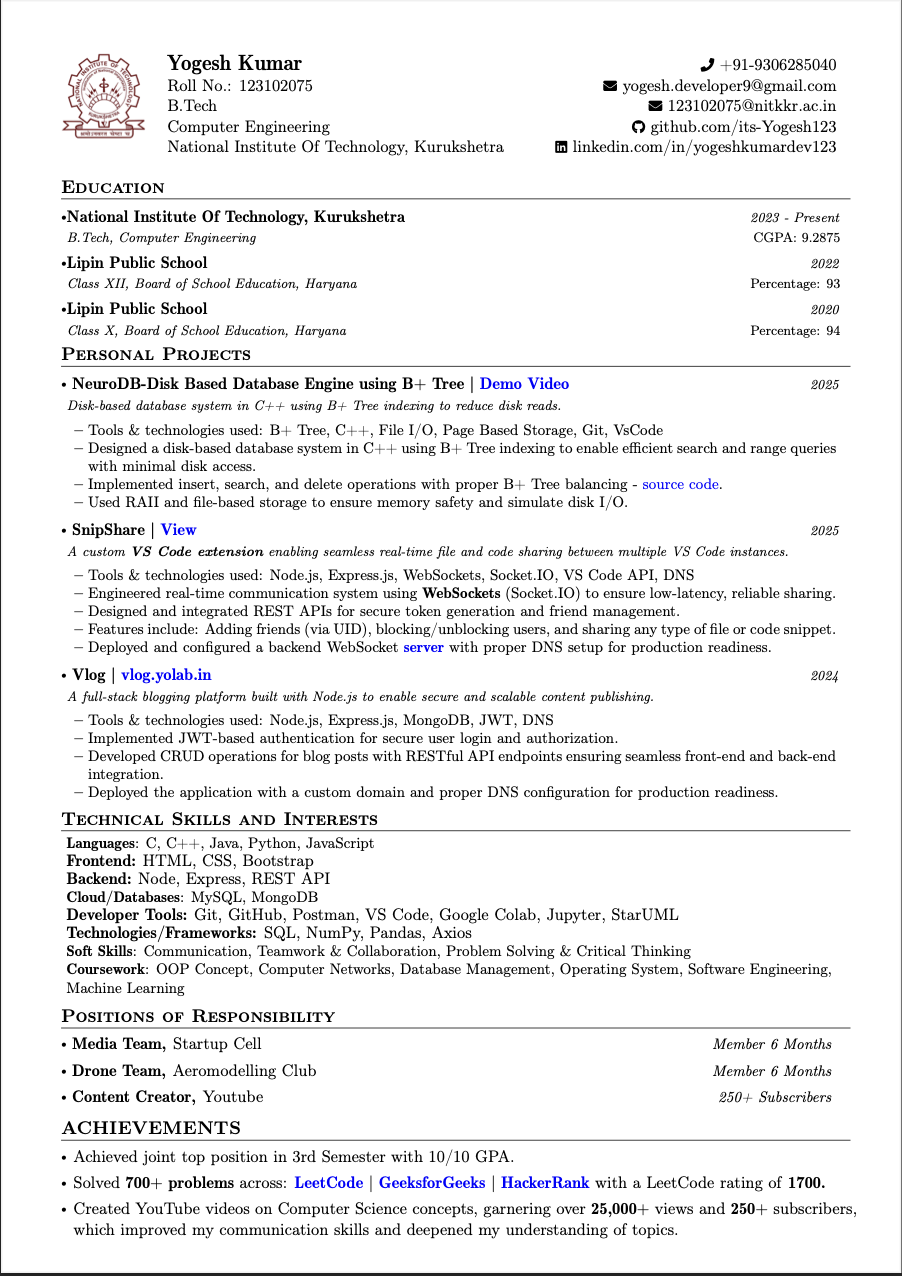
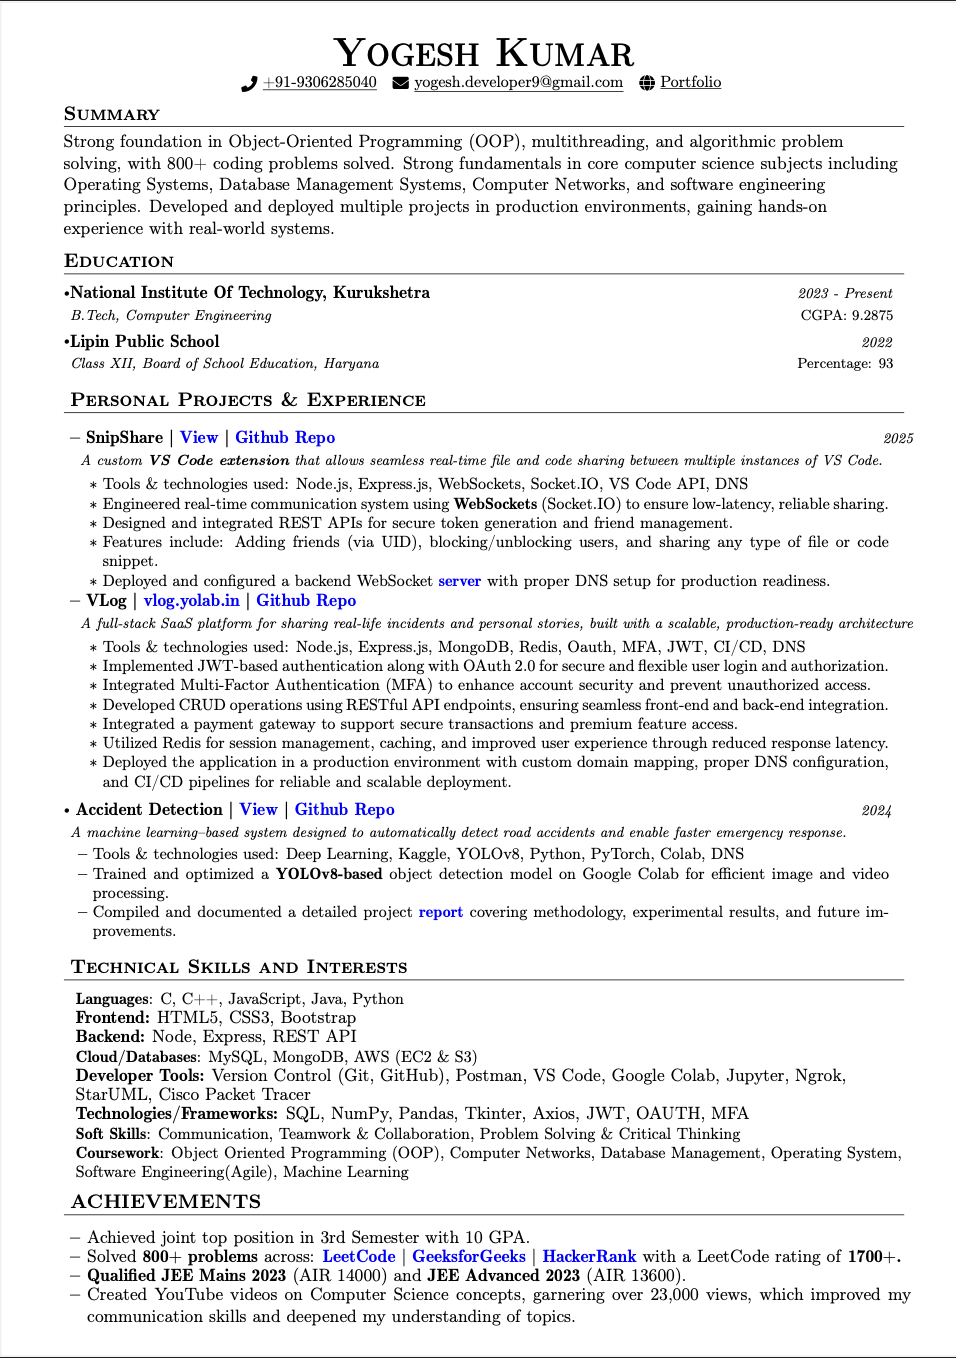
Updating Resume Details

diff --git a/index.html b/index.html
@@ -60,7 +60,7 @@
                     </div>
                     <div class="resume-badge">
                         <i class="fas fa-file-alt"></i>
-                        <a href="https://drive.google.com/file/d/1huIwyRhLNs9xKlSitWYkYPJdNvHmyF9T/view?usp=drive_link"
+                        <a href="https://drive.google.com/file/d/1I-phHcSTpFTeuGlnLY4YaqByzis_kfzd/view?usp=drive_link"
                             target="_blank" style="text-decoration: none;"><span>Resume</span></a>
                     </div>
                 </div>
@@ -791,10 +791,10 @@ Focused on fast generation, accuracy, and a simple user-friendly interface.</p>
                     </span>
                 </a>
                 <a class="social-link phone-link">
-                    <i class="fas fa-phone" onclick="copyNumber(event, '+919138520137')"></i>
-                    <span onclick="copyNumber(event, '+919138520137')">Phone</span>
+                    <i class="fas fa-phone" onclick="copyNumber(event, '+919306285040')"></i>
+                    <span onclick="copyNumber(event, '+919306285040')">Phone</span>
                     <span class="phone-tooltip">
-                        +91 9138520137
+                        +91 9306285040
                     </span>
                 </a>
                 <a href="https://www.youtube.com/@BotnetTech-pi7rc" class="social-link">
